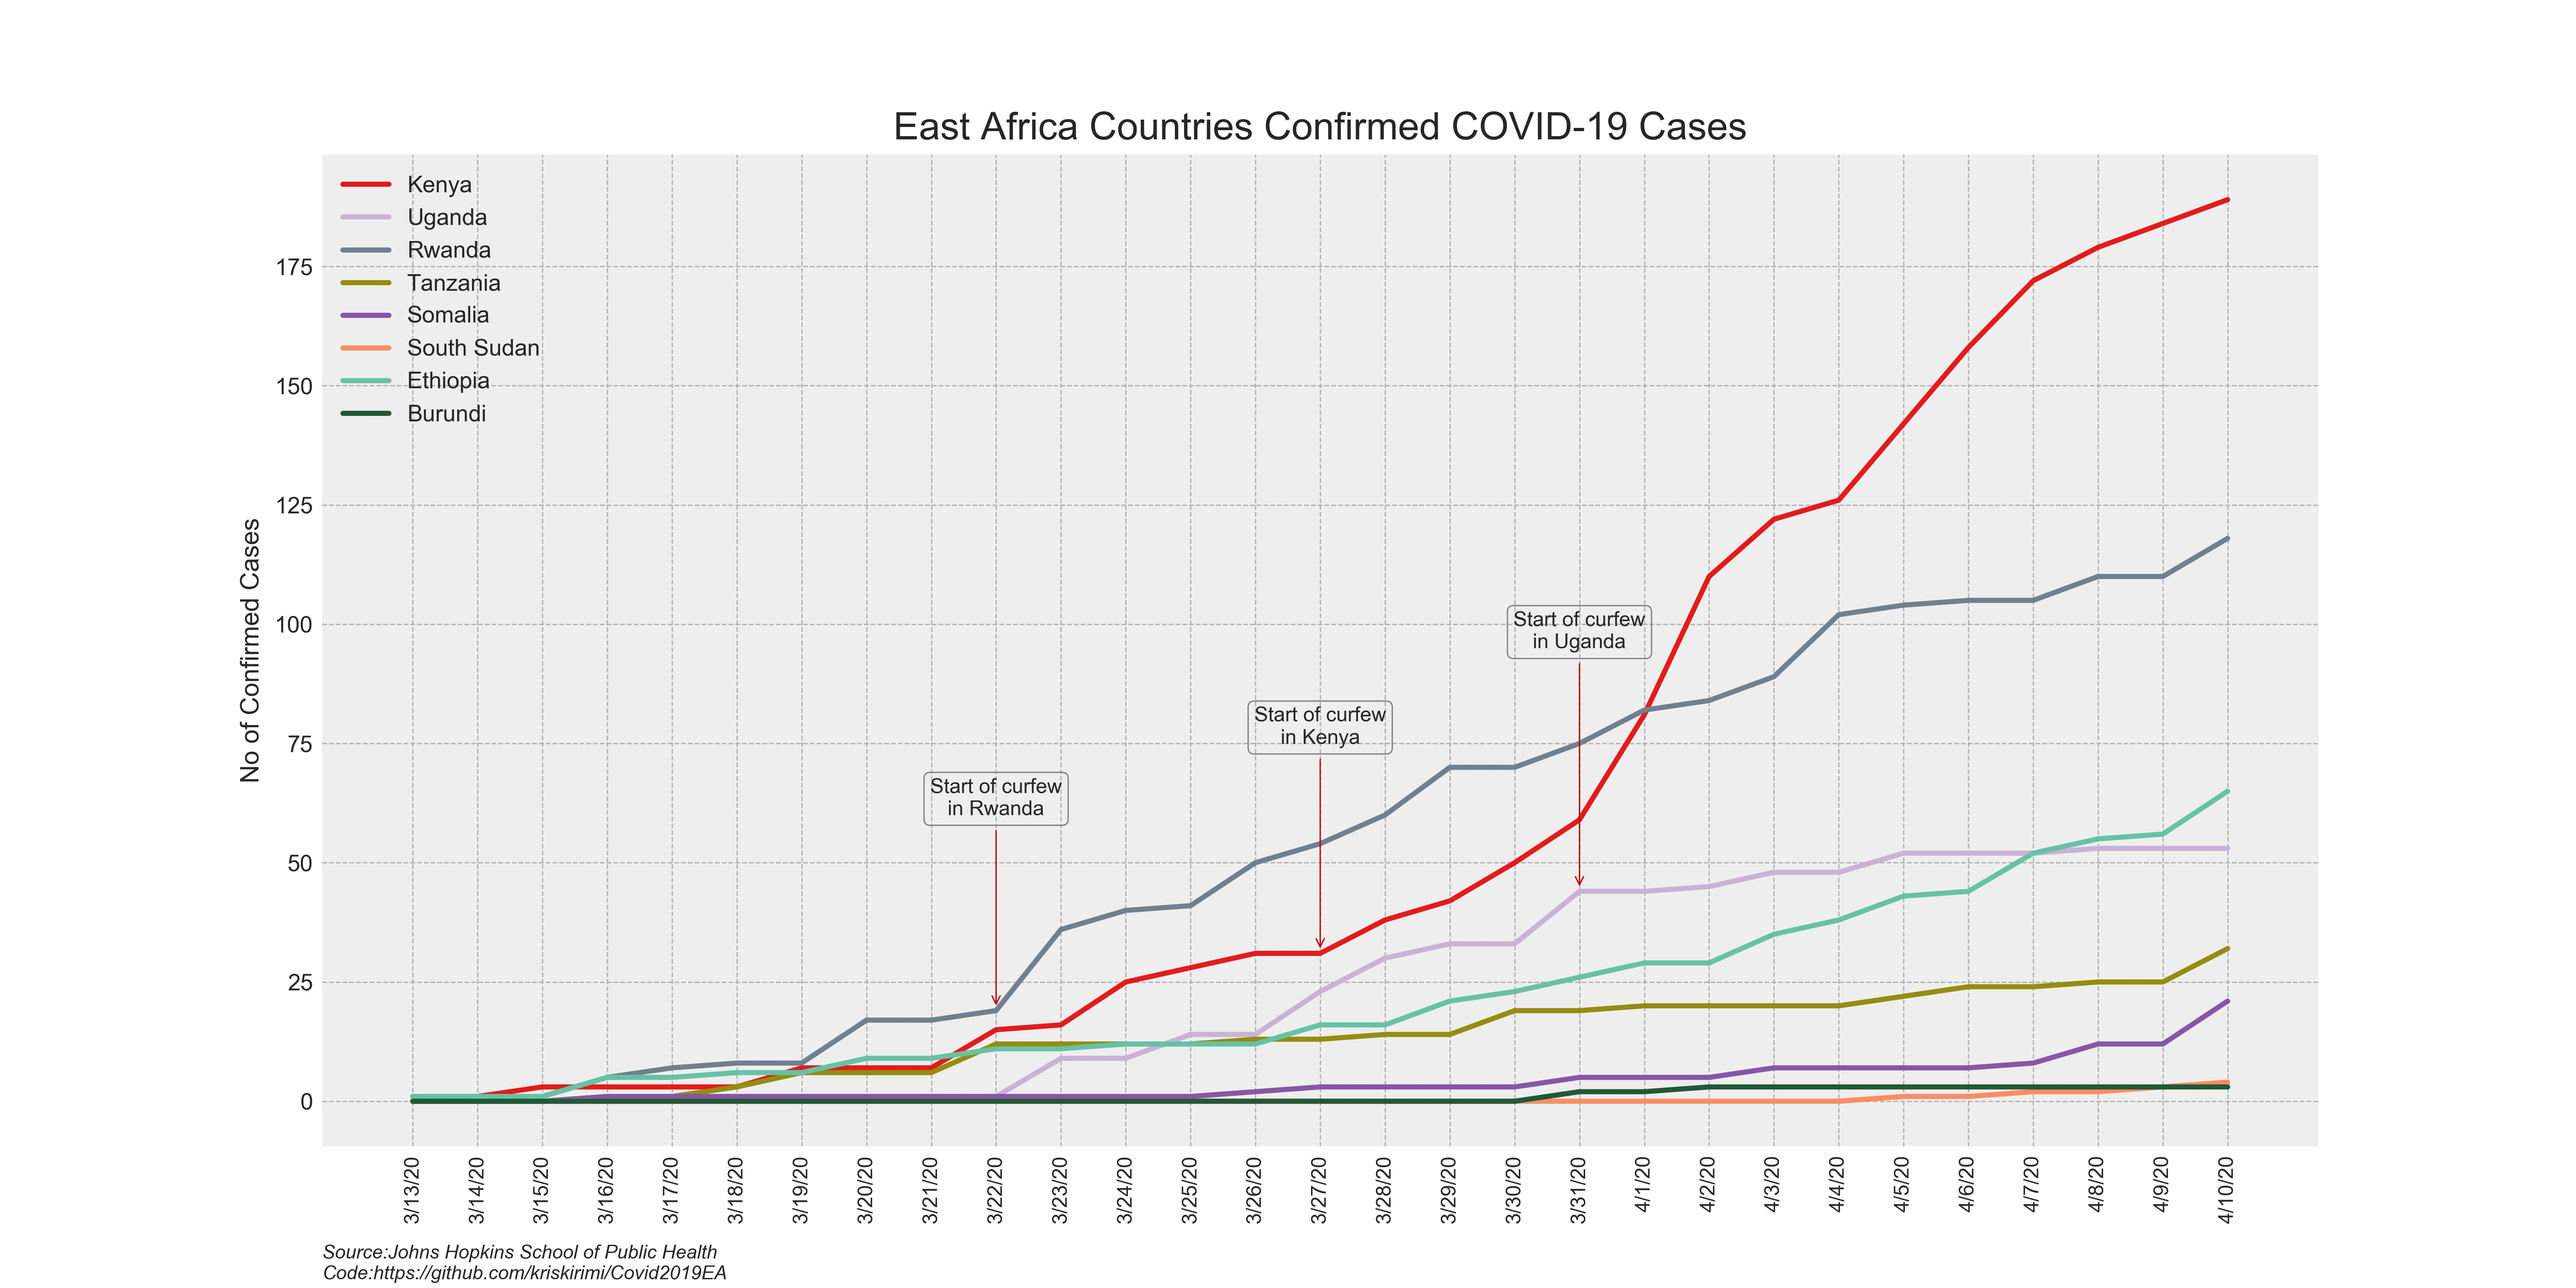
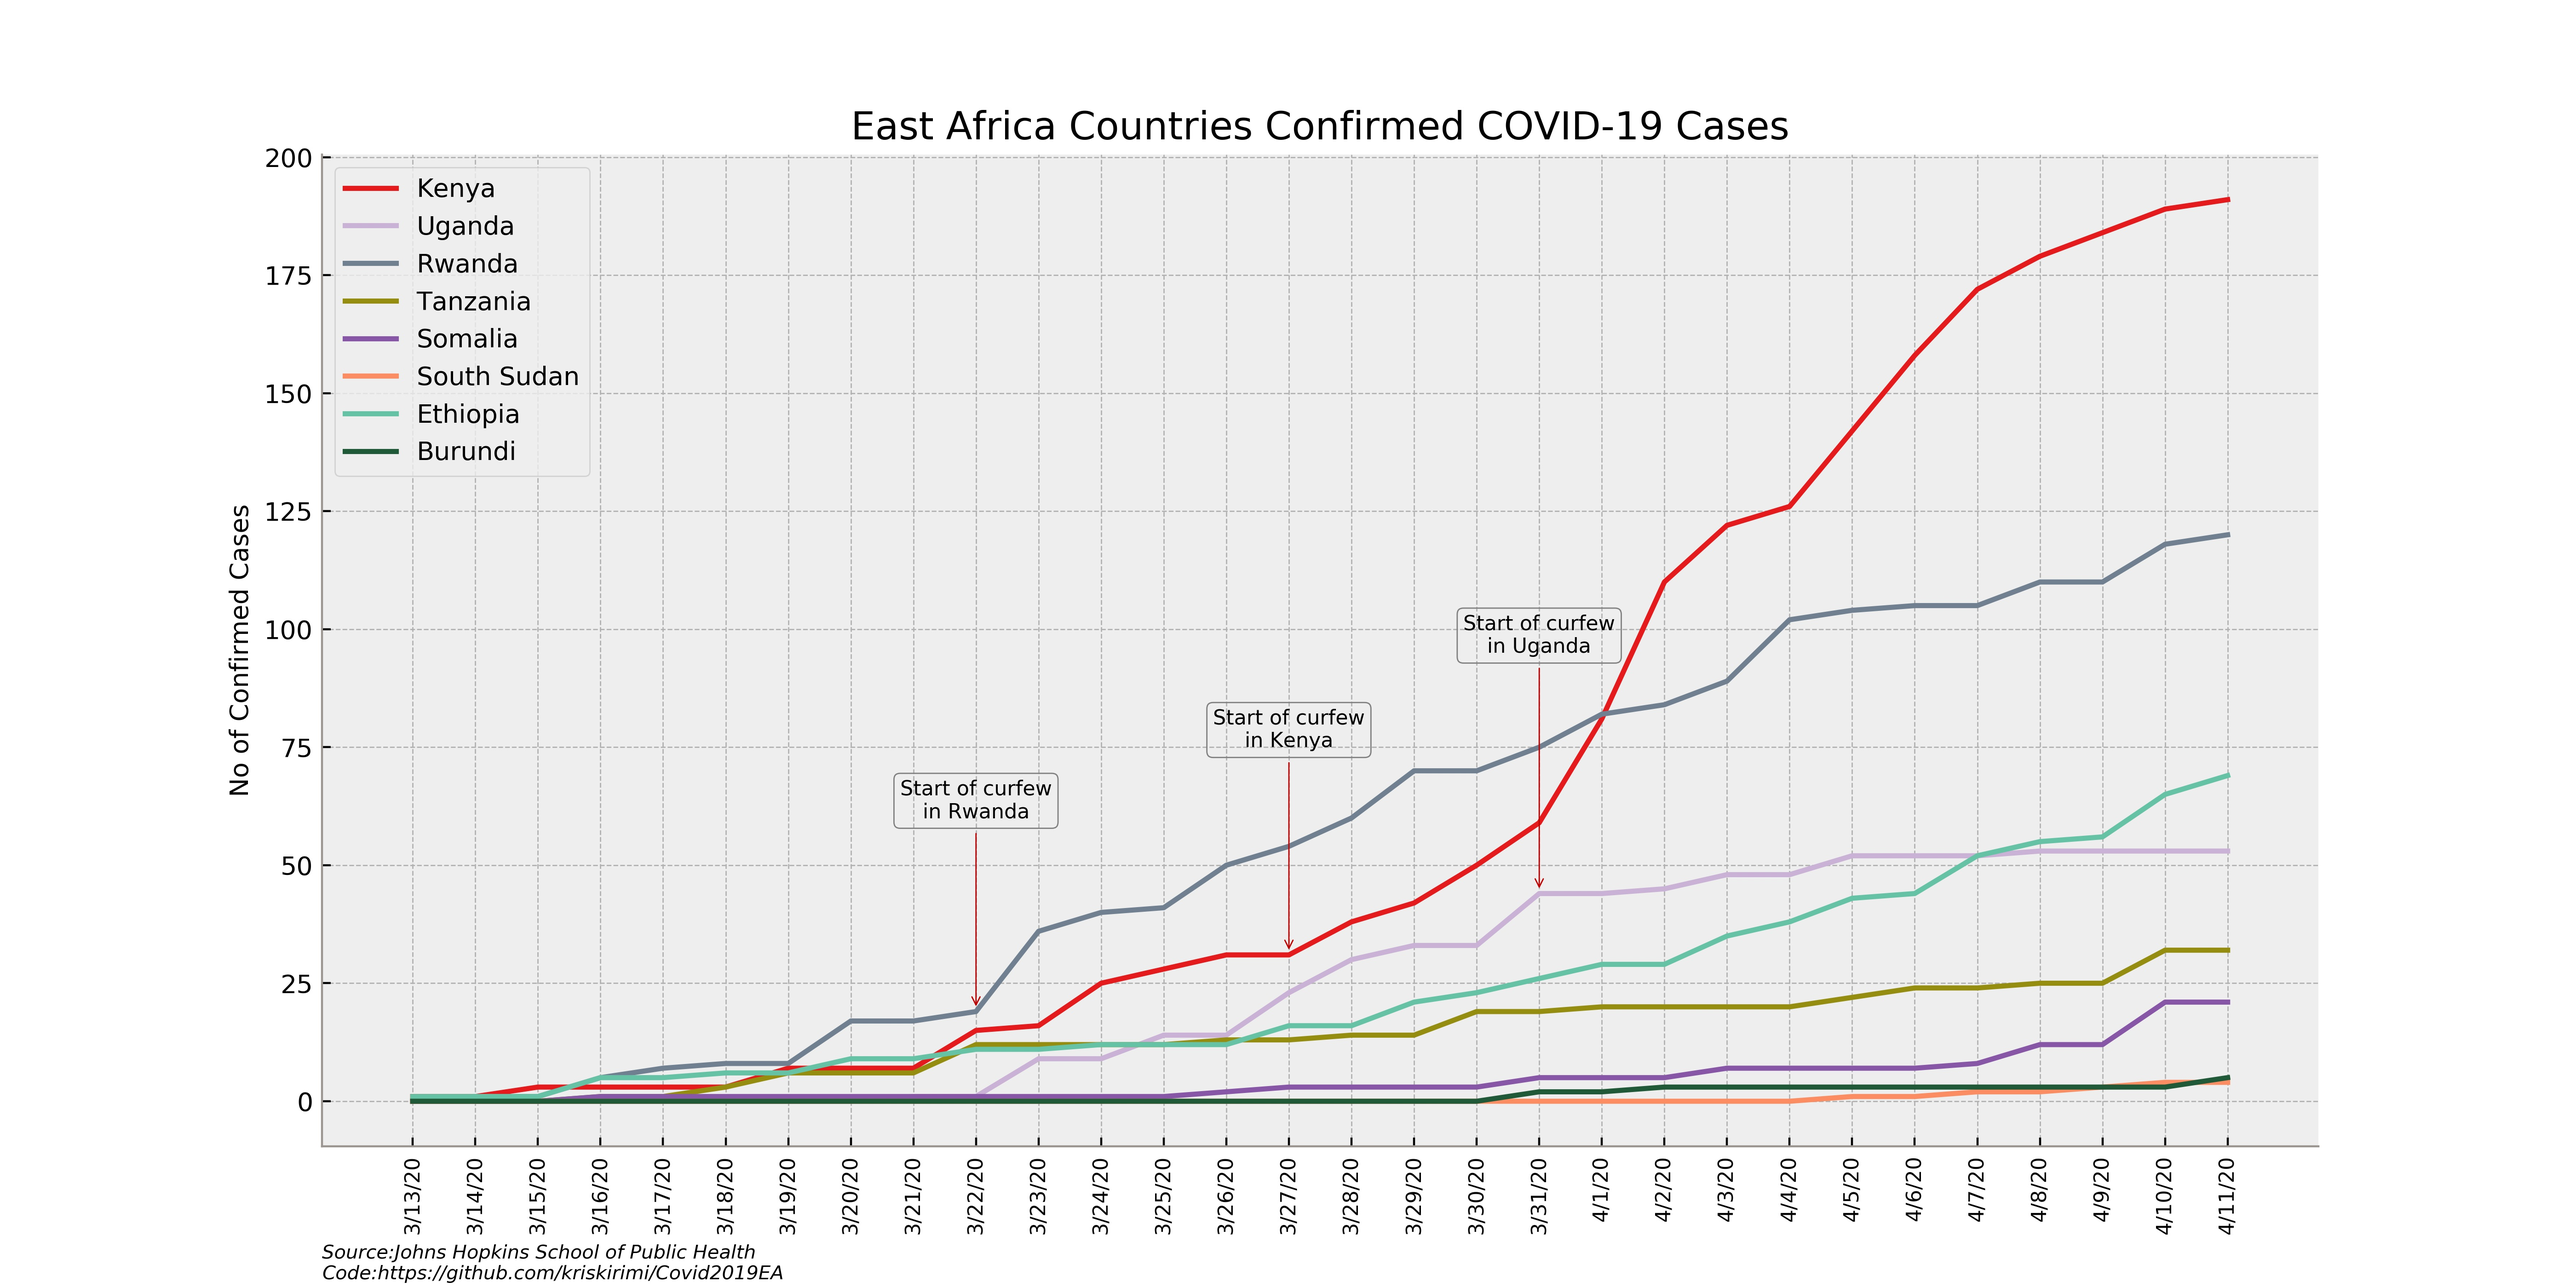
updates

diff --git a/Kenya COVID-19 [cases, recoveries, deaths]Statistics.py b/Kenya COVID-19 [cases, recoveries, deaths]Statistics.py
@@ -9,61 +9,70 @@ import pandas as pd
 import matplotlib.pyplot as plt
 import matplotlib as mpl
 from cycler import cycler
+import seaborn as sns
+import matplotlib.dates as mdates
+from pandas.plotting import register_matplotlib_converters
+register_matplotlib_converters()
 Cases_ = 'https://bit.ly/3e8cPnf'
 Recovered = 'https://bit.ly/39YqrxU'
 Deaths = 'https://bit.ly/3eboDVB'
-
+sns.set()
 df = pd.concat(map(pd.read_csv,[Cases_, Recovered, Deaths]))
-
+df.columns
 df = df[df['Country/Region'].str.contains('Kenya')]
-
 df.drop(['Lat', 'Long', 'Province/State'], inplace=True, axis=1)
-
 df=df.reset_index(drop=True)
-
 df=df.set_index('Country/Region').T
-
 df.reset_index(inplace=True)
-
 df=df.loc[df.sum(axis=1)!=0]
 
-
 df.columns = ['Dates','Confirmed Cases','Recoveries', 'Deaths']
-
 df.reset_index(inplace=True)
 
 
-fig, ax = plt.subplots(figsize=(14,7))
-mpl.rcParams['axes.prop_cycle'] = (cycler(color=['#4daf4a', '#377eb8', '#e41a1c']))
-mpl.rcParams['font.size'] = 9
+fig, ax = plt.subplots(figsize=(15,7))
+ax.spines['left'].set_color('#aea6a6')
+ax.spines['bottom'].set_color('#aea6a6')
 
-p=[df['Confirmed Cases'],df['Recoveries'],df['Deaths']]
+mpl.rcParams['axes.prop_cycle'] = (cycler(color=['#4daf4a', '#377eb8', 
+            '#e41a1c']))
 
-for i in p[:len(p)]:
-    ax.plot(df['Dates'], i, marker='.')
-  
+
+p=['Confirmed Cases','Recoveries','Deaths']
+df=df.melt(id_vars='Dates', value_vars=p, var_name='',
+           value_name='No')
+
+df['Dates'] = pd.to_datetime(df['Dates'], 
+  format='%m/%d/%y', errors='raise')
+
+ax=sns.set_style('darkgrid')
+ax=sns.lineplot(x='Dates', y='No', hue='',
+               data=df, marker='.')
+
 ax.set(title='COVID-19 in Kenya')
 
-ax.annotate('Source:Johns Hopkins School of Public Health\nCode:https://github.com/kriskirimi/Covid2019EA',
-            fontsize=7, style='italic',xy=(0, 0),xycoords=('axes fraction'), textcoords=('offset points'), 
-            xytext=((00, -49)))
+ax.annotate('Source:Johns Hopkins School of Public Health           Code:https://github.com/kriskirimi/Covid2019EA',
+            fontsize=8, style='italic',xy=(0, 0),xycoords=('axes fraction'), textcoords=('offset points'), 
+            xytext=((00, -52)))
 
 bbox=dict(boxstyle='round', fc='none', ec='grey')
 
 ax.annotate('Start of curfew', xycoords='data',xy=('3/27/20',0), 
             xytext=('3/27/20',110), bbox=bbox,
-            arrowprops=dict(arrowstyle='-',color='#6f6f6f',linestyle='dashed'), fontsize=8,ha='center' )
+            arrowprops=dict(arrowstyle='-',color='#515050',linestyle='dashed'), fontsize=8,ha='center' )
 
 ax.annotate('Ban on\nInternational Flights', xycoords='data',xy=('3/25/20',0), 
             xytext=('3/25/20',75), bbox=bbox,
-            arrowprops=dict(arrowstyle='-',color='#6f6f6f', linestyle='dashed'), fontsize=8,ha='center' )
+            arrowprops=dict(arrowstyle='-',color='#515050', linestyle='dashed'), fontsize=8,ha='center' )
+
 ax.set_xticklabels(labels=df['Dates'],rotation=90, fontsize=8)
 
-ax.legend(labels=['Confirmed Cases','Recoveries','Deaths'],loc='best')
-
-plt.style.use('seaborn-darkgrid')   
+ax.xaxis.set_major_formatter(mdates.DateFormatter('%d/%m/%y'))
+ax.xaxis.set_major_locator(mdates.DayLocator(interval=1))
+ax.set_xlabel('')
+ax.set_ylabel('')
+ax.set_xlim(df['Dates'].min(), df['Dates'].max())
 plt.savefig(r'C:\Users\KIRIMI\Documents\GitHub\Covid2019EA\Kenya COVID-19 [cases, recoveries, deaths]Statistics.jpeg',
             format='jpeg', dpi=400)
 plt.show()
-
 plt.close()

diff --git a/Total Cases Confirmed East Africa Gif Code.py b/Total Cases Confirmed East Africa Gif Code.py
@@ -9,9 +9,8 @@ import pandas as pd
 import matplotlib.pyplot as plt
 from matplotlib.animation import FuncAnimation
 from matplotlib.animation import ImageMagickWriter
-Raw_Data_Link = 'https://bit.ly/3e8cPnf'
-df = pd.read_csv(Raw_Data_Link)
-df.dtypes
+df = pd.read_csv('https://bit.ly/3e8cPnf')
+
 East_Africa = (['Kenya', 'Tanzania', 'Uganda', 'Rwanda', 'Burundi', 'Ethiopia', 
                 'South Sudan', 'Somalia'])
 df = df[df['Country/Region'].str.contains(format('|'.join(East_Africa)))]
@@ -23,7 +22,7 @@ df.set_index('Country/Region', inplace=True, drop=True)
 df = df.T
 df=df.loc[(df.sum(axis=1)!=0)]
 df.reset_index(inplace=True)
-fig, ax = plt.subplots(figsize=(11,7))
+fig, ax = plt.subplots(figsize=(12,7))
 x = df['index']
 y1= df['Ethiopia']
 y2= df['Kenya']
@@ -52,12 +51,12 @@ ax.spines['bottom'].set_color('#525252')
 ax.set_xticklabels(labels= df['index'].iloc[:], rotation=90, fontsize=8)
 ax.legend(labels=['Ethiopia', 'Kenya', 'Tanzania', 'Uganda', 'Burundi', 'South Sudan',
        'Somalia', 'Rwanda'], loc='upper left')
-ax.set(xlabel='Dates', ylabel='Code:https://github.com/kriskirimi/Covid2019EA\n\nNo of Confirmed Cases', title='East Africa COVID-19 Confirmed Cases')
+ax.set(title='East Africa COVID-19 Confirmed Cases')
 plt.style.use('ggplot')
 
-ax.annotate('Source:Johns Hopkins School of Public Health',
-            fontsize=8,xy=(0, 0),xycoords=('axes fraction'), textcoords=('offset points'), 
-            xytext=((00, -48)))
+ax.annotate('Source:Johns Hopkins School of Public Health\nCode:https://github.com/kriskirimi/Covid2019EA',
+            fontsize=7.5, color='#6b6a6a',style='italic',xy=(0, 0),xycoords=('axes fraction'), textcoords=('offset points'), 
+            xytext=((00, -52)))
 def animate(i):
     line1.set_data(x[:i],y1[:i])
     line2.set_data(x[:i],y2[:i])

diff --git a/Total Cases Confirmed East Africa.py b/Total Cases Confirmed East Africa.py
@@ -9,9 +9,7 @@ import pandas as pd
 import matplotlib.pyplot as plt
 import matplotlib as mpl
 from cycler import cycler
-Raw_Data_Link = 'https://bit.ly/3e8cPnf'
-df = pd.read_csv(Raw_Data_Link)
-df.dtypes
+df = pd.read_csv('https://bit.ly/3e8cPnf')
 East_Africa = (['Kenya', 'Tanzania', 'Uganda', 'Rwanda', 'Burundi', 'Ethiopia', 
                 'South Sudan', 'Somalia'])
 df = df[df['Country/Region'].str.contains(format('|'.join(East_Africa)))]
@@ -19,9 +17,7 @@ df.drop(['Province/State', 'Lat', 'Long'], axis=1, inplace=True)
 df.set_index('Country/Region', inplace=True, drop=True)
 df = df.T
 df=df.loc[(df.sum(axis=1)!=0)]
-len(df.columns)
-len(df.columns)
-len(df.columns)
+
 df=df.reset_index()
 df=df.rename(columns={'index':'Dates'})
 #curfew_Dates=[KE--3/27/20, RW-3/22/20, UG--3/31/20]
@@ -37,15 +33,6 @@ mpl.rcParams['axes.labelsize'] = 10
 mpl.rcParams['axes.titlesize'] = 15
 
 fig, ax = plt.subplots(figsize=(14,7))
-x = df['Dates']
-y1= df['Kenya']
-y2= df['Uganda']
-y3= df['Rwanda']
-y4= df['Tanzania']
-y5= df['Somalia']
-y6= df['South Sudan']
-y7= df['Ethiopia']
-y8= df['Burundi']
 
 i=[ df['Kenya'], df['Uganda'], df['Rwanda'],df['Tanzania'], 
    df['Somalia'], df['South Sudan'],df['Ethiopia'], df['Burundi']]
